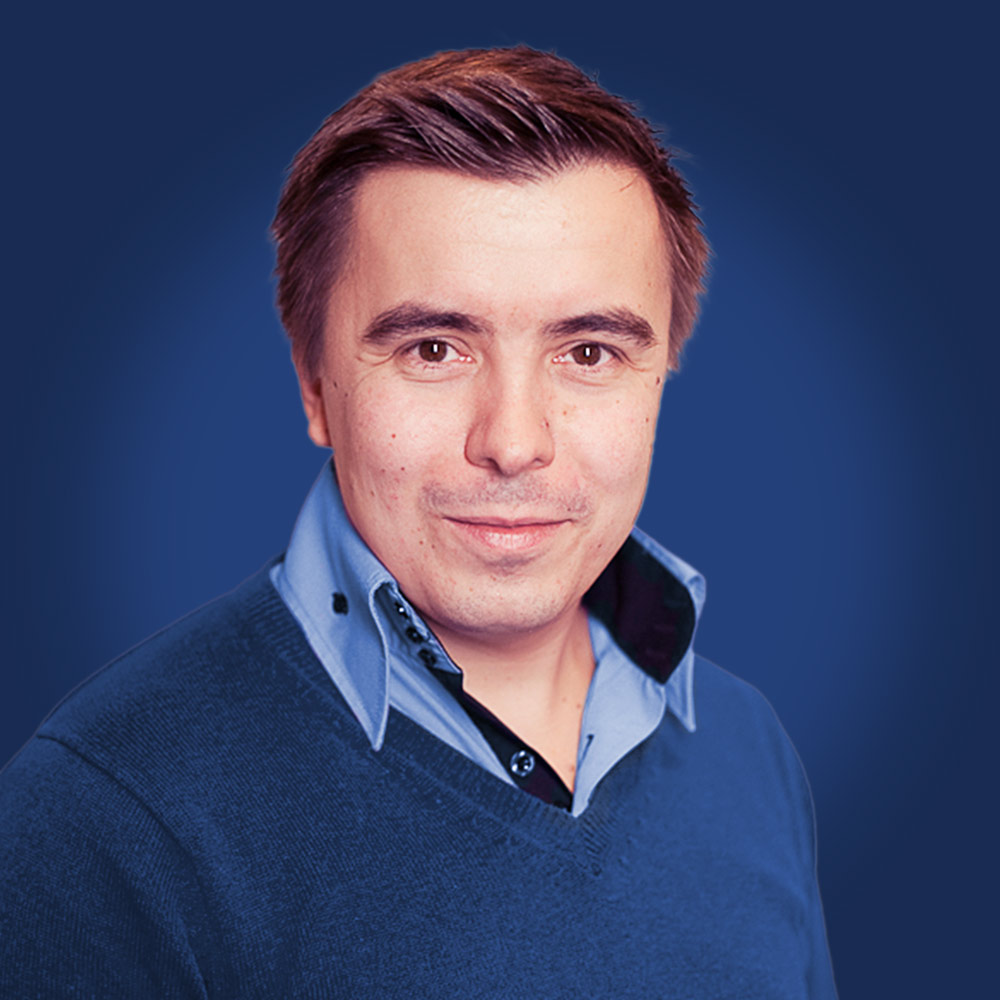
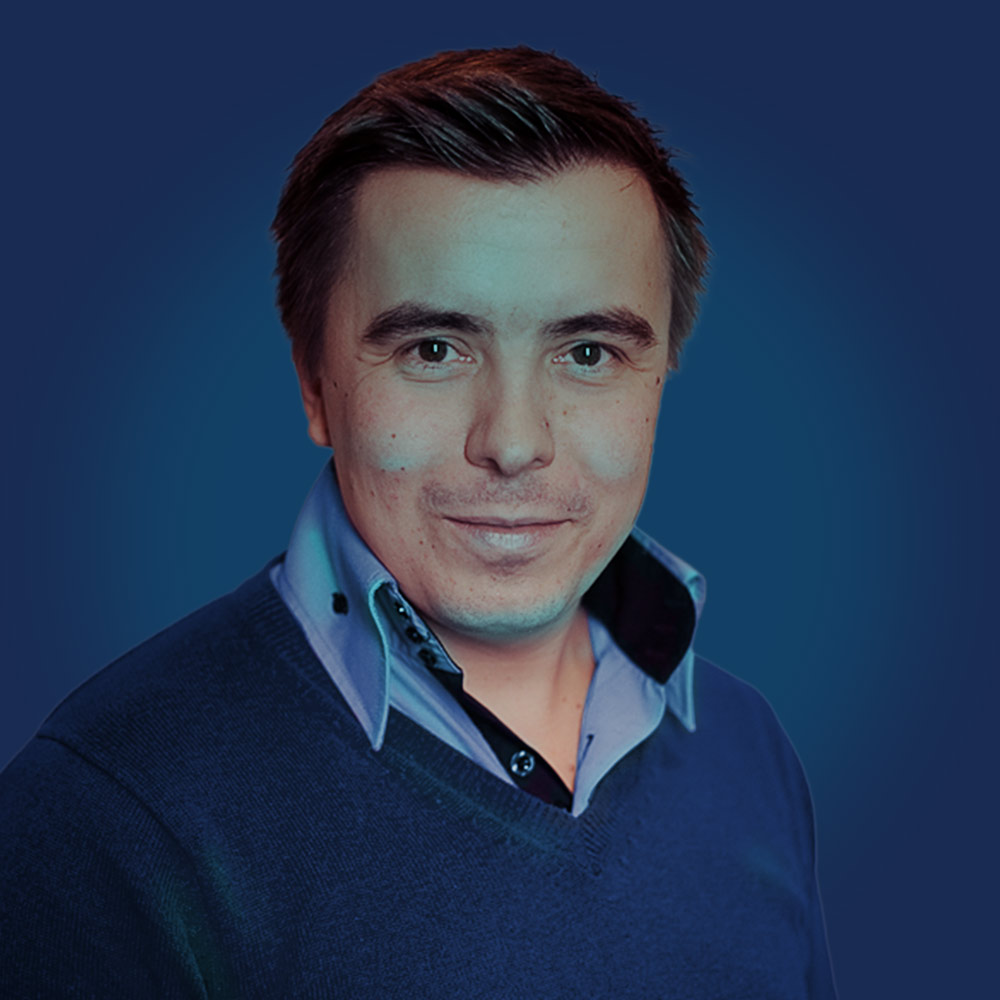
Make it pop

diff --git a/source/stylesheets/site.css.scss b/source/stylesheets/site.css.scss
@@ -129,7 +129,7 @@ span.underline {
       background-repeat: no-repeat;
       background-image: none;
       animation: flicker 1.5s infinite alternate;
-      mix-blend-mode: normal;
+      mix-blend-mode: hard-light;
   }
 
   .social-link {
@@ -153,11 +153,11 @@ span.underline {
       text-shadow:
           -0.2rem -0.2rem 1rem #fff,
           0.2rem 0.2rem 1rem #fff,
-          0 0 2rem $opi-yellow-500,
-          0 0 4rem $opi-yellow-500,
-          0 0 6rem $opi-yellow-500,
-          0 0 8rem $opi-yellow-500,
-          0 0 10rem $opi-yellow-500;
+          0 0 2rem yellow,
+          0 0 4rem yellow,
+          0 0 6rem yellow,
+          0 0 8rem yellow,
+          0 0 10rem yellow;
   }
   
   20%, 24%, 55% {        
